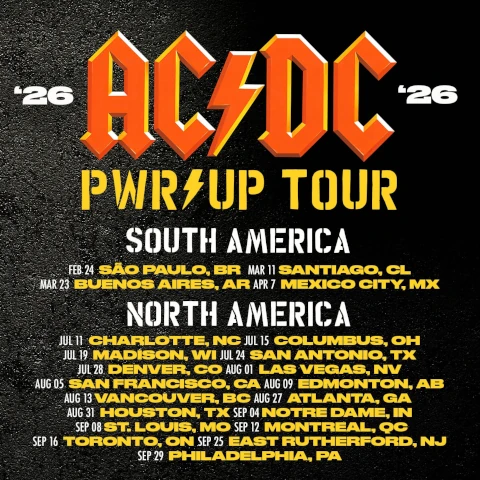
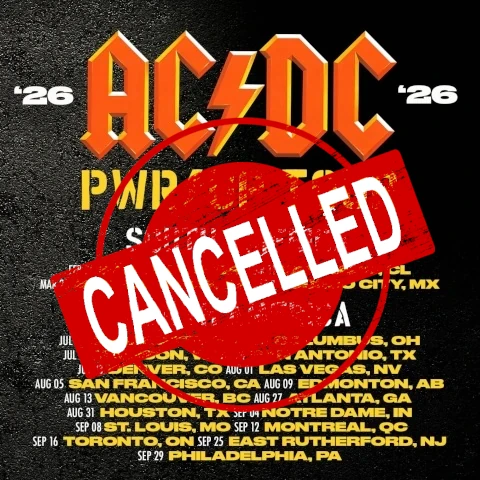
feat: enhance FlipCard component with additional props for concert details

diff --git a/src/i18n.ts b/src/i18n.ts
@@ -90,8 +90,10 @@ const resources = {
               date: "Oct 08, 2026",
             },
             acdc2026: {
-              description: "Coming soon.",
+              description: "The AC/DC concert in Toronto has been canceled after a severe thunderstorm caused “significant damage” to Rogers Stadium.",
               date: "Sep 16, 2026",
+              moreText: "[ Read more ]",
+              moreUrl: "https://www.cbc.ca/news/canada/toronto/acdc-concert-cancelled-rogers-stadium-9.7338010"
             },
             ironmaiden2026: {
               description: "The show's production was impressive, with an energetic and engaging performance by the band.",
@@ -234,8 +236,10 @@ const resources = {
               date: "08 out, 2026",
             },
             acdc2026: {
-              description: "Em breve.",
+              description: "Infelizmente, o show do AC/DC em Toronto foi cancelado depois que uma forte tempestade causou “danos significativos” ao Rogers Stadium.",
               date: "16 set, 2026",
+              moreText: "[ Leia mais ]",
+              moreUrl: "https://www.cbc.ca/news/canada/toronto/acdc-concert-cancelled-rogers-stadium-9.7338010"
             },
             ironmaiden2026: {
               description: "Impressionante a produção do show, com uma performance energética e envolvente da banda.",
@@ -270,7 +274,7 @@ const resources = {
               date: "26 nov, 2023",
             },
             kiss: {
-              description: "Que espetáculo! Na última turnê, a banda provou que ainda tinha fôlego de sobra — pirotecnia, energia e uma presença de palco arrebatadora do início ao fim.",
+              description: "Que espetáculo! Na última turnê, a banda provou que ainda tinha fôlego de sobra, pirotecnia, energia e uma presença de palco arrebatadora do início ao fim.",
               date: "25 abr, 2023",
             },
             scorpions: {

diff --git a/src/componets/FlipCard/FlipCard.tsx b/src/componets/FlipCard/FlipCard.tsx
@@ -12,6 +12,8 @@ interface FlipCardProps {
   note: string;
   date: string;
   text: string;
+  moreText?: string;
+  moreUrl?: string;
 }
 
 
@@ -27,7 +29,10 @@ export default function FlipCard(props: FlipCardProps) {
           <h2>{props.subtitle}</h2>
           <p className="bold">{props.note}</p>
           <p className="italic">{props.date}</p>
-          <p style={{ padding: '20px' }}>{props.text}</p>
+          <p style={{ padding: '10px' }}>{props.text}</p>
+          {props.moreText && props.moreUrl && (
+            <a href={props.moreUrl} target="_blank" rel="noopener noreferrer" style={{ padding: '5px', display: 'block' }}>{props.moreText}</a>
+          )}
         </FlipCardBack>
       </FlipCardInner>
     </FlipCardContainer>

diff --git a/src/pages/Home/sections/rock/RockSection.tsx b/src/pages/Home/sections/rock/RockSection.tsx
@@ -57,7 +57,9 @@ export default function RockSection(args: RockArgs) {
                     subtitle='Power up Tour 2026'
                     note='Toronto, ON, Canada'
                     date={args.shows.acdc2026.date}
-                    text={args.shows.acdc2026.description} />
+                    text={args.shows.acdc2026.description}
+                    moreText={args.shows.acdc2026.moreText}
+                    moreUrl={args.shows.acdc2026.moreUrl} />
                 <FlipCard
                     image={rock_iron_maden_2026}
                     title='Iron Maiden'
